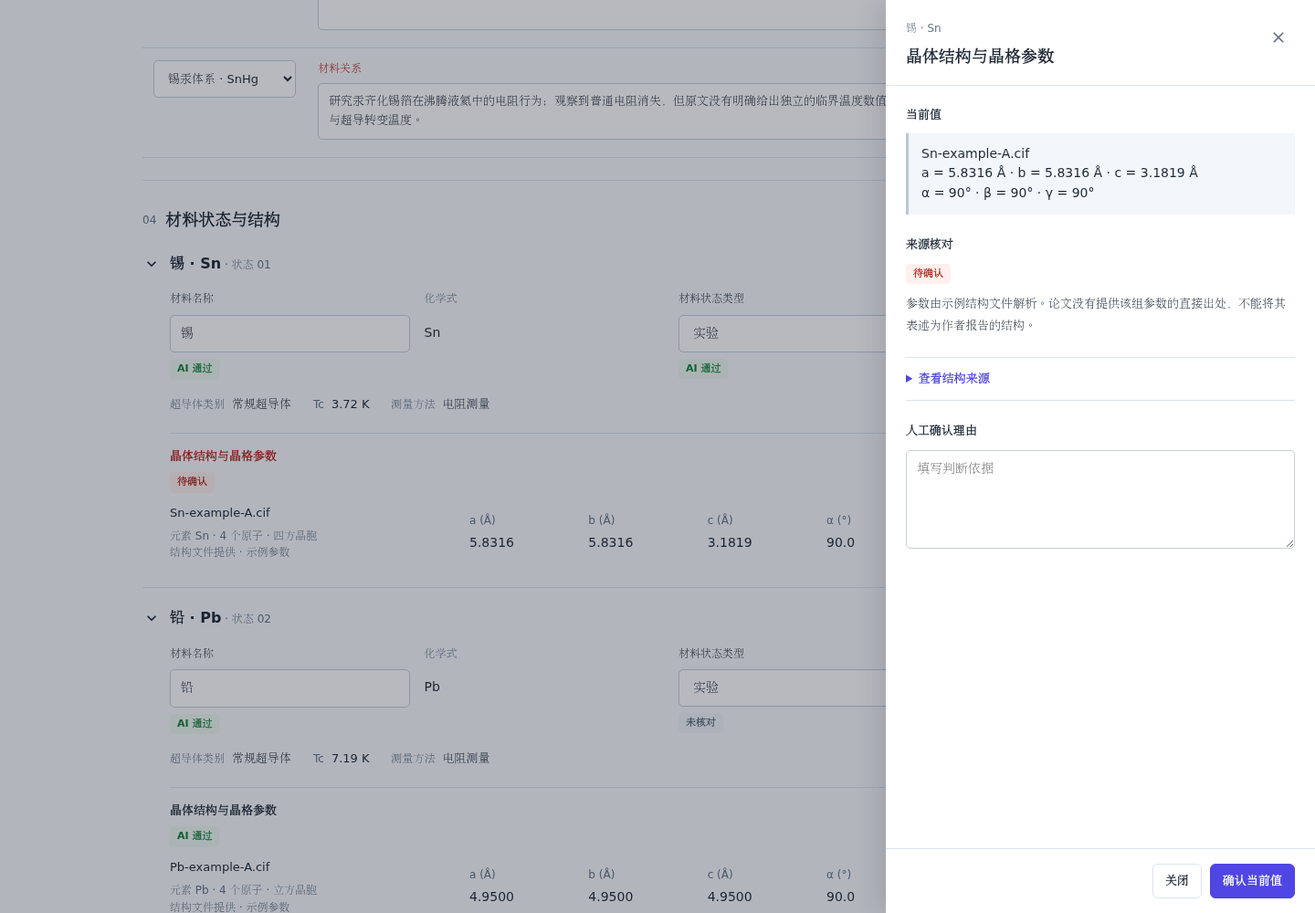
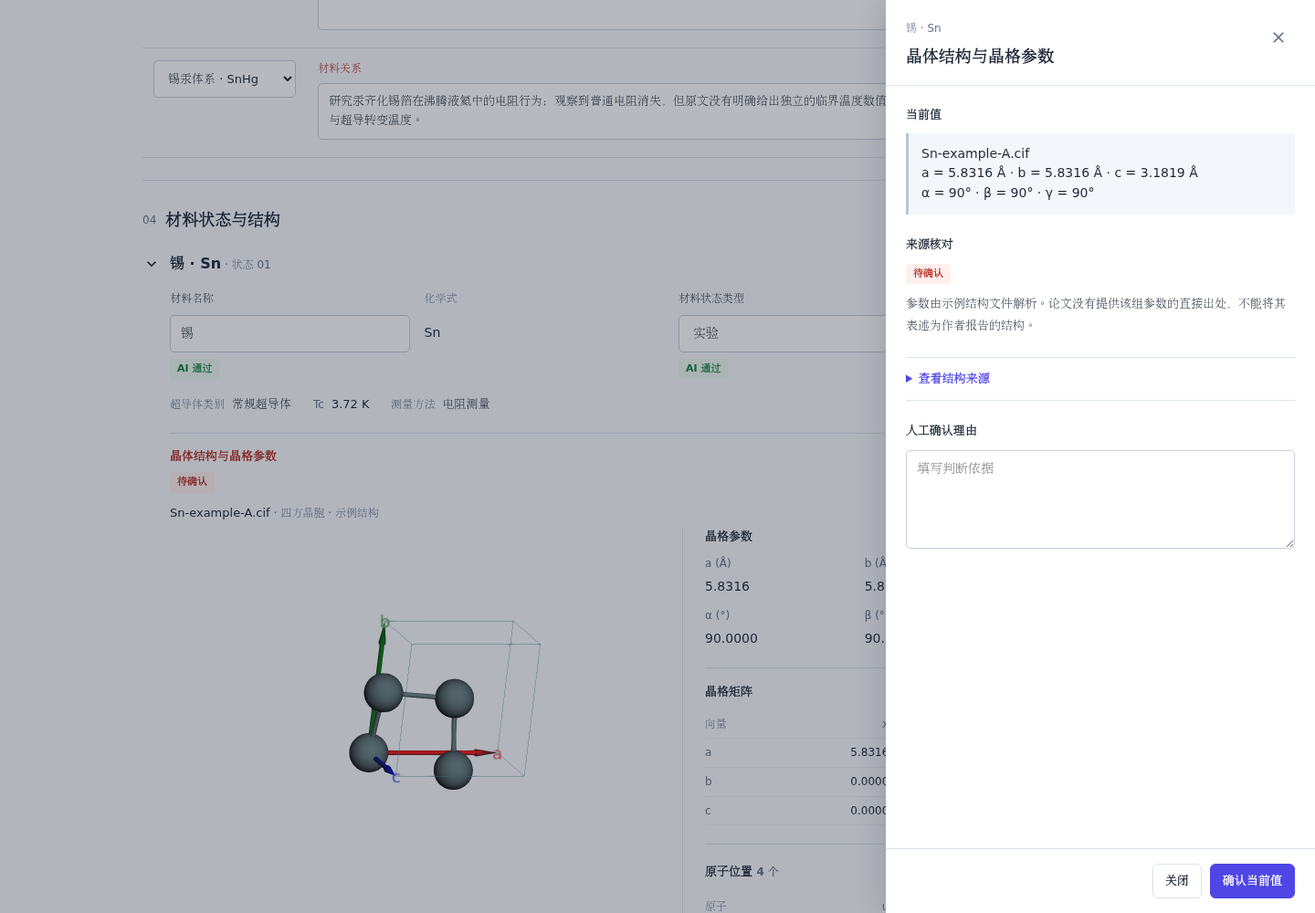
[时间] 2026-09-17 10:18:36 +0800 [修改目的] 将科学数据 Demo 的结构区改为三维模型与晶格及原子数据左右对照 [修改内容] - demo/scientific-review-layout-demo.html: 复用本地 3Dmol，实现等宽双栏、晶格矩阵、分数与直角坐标、旋转缩放重置及结构同步更新 - demo/scientific-review-layout-desktop.png: 更新桌面完整预览 - demo/scientific-review-layout-drawer.png: 更新来源核对侧栏预览 - demo/scientific-review

diff --git a/demo/scientific-review-layout-demo.html b/demo/scientific-review-layout-demo.html
@@ -4,7 +4,8 @@
   <meta charset="utf-8">
   <meta name="viewport" content="width=device-width, initial-scale=1">
   <title>SC-Wiki · 科学数据统一展示 Demo</title>
-  <!-- Issue #103 布局原型：所有数据与核对操作均为内存中的示例，不请求业务接口。 -->
+  <!-- Issue #103 布局原型：所有数据与核对操作均为内存中的示例，不请求业务接口。
+       3Dmol 使用仓库已安装的本地浏览器构建；晶体解析与坐标换算复用该库。 -->
   <style>
     :root { color-scheme: light; --bg:#f8fafc; --paper:#fff; --ink:#1f2937; --muted:#64748b; --line:#dce3eb; --primary:#4f46e5; --teal:#087f8c; --error:#b3261e; --success:#15803d; --warning:#946200; font-family:Inter,Roboto,"Segoe UI","Microsoft YaHei",sans-serif; font-size:14px; color:var(--ink); background:var(--bg); }
     * { box-sizing:border-box; letter-spacing:0; }
@@ -103,9 +104,28 @@
     .structure { margin:6px 0 20px; border-top:1px solid var(--line); padding-top:15px; }
     .structure-head { display:flex; justify-content:space-between; align-items:center; gap:12px; margin-bottom:12px; }
     .structure-title { font-weight:650; font-size:13px; }
-    .structure-body { display:grid; grid-template-columns:minmax(190px,1fr) minmax(0,2.5fr); gap:20px; align-items:center; }
+    .structure-body { display:grid; grid-template-columns:repeat(2,minmax(0,1fr)); gap:24px; align-items:start; }
+    .structure-visual,.structure-data { min-width:0; }
+    .crystal-slot,.crystal-host { position:relative; width:100%; height:440px; }
+    .crystal-host canvas { display:block; max-width:100%; touch-action:none; }
+    .viewer-tools { display:flex; align-items:center; justify-content:space-between; gap:10px; padding:8px 0; border-bottom:1px solid var(--line); }
+    .element-legend { display:flex; align-items:center; gap:12px; flex-wrap:wrap; font-size:12px; }
+    .element-legend span { display:inline-flex; gap:6px; align-items:center; }
+    .element-swatch { width:12px; height:12px; border:1px solid #64748b55; border-radius:50%; }
+    .structure-data { border-left:1px solid var(--line); padding-left:24px; }
+    .data-group + .data-group { margin-top:20px; padding-top:16px; border-top:1px solid var(--line); }
+    .data-heading { display:flex; align-items:center; justify-content:space-between; flex-wrap:wrap; gap:8px; margin-bottom:10px; }
+    .data-heading h4 { font-size:13px; margin:0; font-weight:650; }
+    .data-table { width:100%; border-collapse:collapse; table-layout:fixed; font-size:12px; font-variant-numeric:tabular-nums; }
+    .data-table th,.data-table td { text-align:right; padding:6px 8px; border-bottom:1px solid #e7edf3; white-space:nowrap; }
+    .data-table th { color:var(--muted); font-weight:500; }
+    .data-table th:first-child,.data-table td:first-child { width:58px; text-align:left; padding-left:0; }
+    .coordinate-mode { display:flex; gap:0; border:1px solid var(--line); border-radius:4px; }
+    .coordinate-mode button { border:0; background:none; padding:4px 8px; font-size:11px; }
+    .coordinate-mode button[aria-pressed="true"] { background:#e9f4f5; color:var(--teal); font-weight:650; }
+    .structure-error { padding:25px 0; font-size:13px; color:var(--error); }
     .file-name { font-size:13px; margin-bottom:6px; overflow-wrap:anywhere; }
-    .cell-values { display:grid; grid-template-columns:repeat(6,minmax(0,1fr)); gap:12px; margin:0; }
+    .cell-values { display:grid; grid-template-columns:repeat(3,minmax(0,1fr)); gap:12px; margin:0; }
     .cell-values dt { color:var(--muted); font-size:12px; }
     .cell-values dd { font-size:14px; font-variant-numeric:tabular-nums; margin:5px 0 0; white-space:nowrap; }
     .empty { padding:12px 0; color:var(--muted); font-size:13px; }
@@ -137,7 +157,7 @@
     .structure-choice input { width:17px; min-height:17px; margin:3px 0 0; flex-shrink:0; }
     .structure-choice strong { display:block; font-size:13px; margin-bottom:5px; }
     #toast { position:fixed; bottom:22px; left:50%; transform:translateX(-50%); max-width:calc(100% - 32px); background:#243442; color:#fff; border-radius:6px; padding:11px 18px; box-shadow:0 4px 16px #0002; z-index:10; font-size:13px; pointer-events:none; }
-    @media(max-width:850px) { .field-grid { grid-template-columns:repeat(2,minmax(0,1fr)); } .cell-values { grid-template-columns:repeat(3,minmax(0,1fr)); } .structure-body { grid-template-columns:1fr 1.4fr; } .relations th:first-child { width:145px; } .relations th:nth-child(3) { width:95px; } }
+    @media(max-width:850px) { .field-grid { grid-template-columns:repeat(2,minmax(0,1fr)); } .structure-body { grid-template-columns:1fr; } .structure-data { border-left:0; padding-left:0; } .relations th:first-child { width:145px; } .relations th:nth-child(3) { width:95px; } }
     @media(max-width:600px) {
       main { padding:20px 16px 0; } .topbar-inner { padding:12px 16px; } .topbar-right .muted { display:none; } .page-heading { align-items:flex-start; } h1 { font-size:22px; } .tabs { gap:0; } .tab { flex:1; padding:12px 4px; }
       .review-strip { flex-direction:column; } .metadata { grid-template-columns:1fr 1fr; } .materials { grid-template-columns:1fr; } .material-item { padding:10px 12px; } .section { padding:21px 0; } .section-head { align-items:flex-start; }
@@ -172,6 +192,7 @@
     <form id="structure-form"><div class="modal-content" id="structure-options"></div><div class="drawer-footer"><button class="btn" type="button" data-action="close-structure">取消</button><button class="btn primary" type="submit">使用此结构</button></div></form>
   </dialog>
   <div id="toast" role="status" hidden></div>
+  <script src="../frontend/node_modules/3dmol/build/3Dmol-min.js"></script>
   <script>
     'use strict';
     // 使用项目现有 @mui/icons-material 的图标路径，保持单文件可离线打开。
@@ -183,6 +204,10 @@
       expand:'M16.59 8.59 12 13.17 7.41 8.59 6 10l6 6 6-6z',
       arrow:'m12 4-1.41 1.41L16.17 11H4v2h12.17l-5.58 5.59L12 20l8-8z',
       science:'M13 11.33 18 18H6l5-6.67V6h2m2.96-2H8.04c-.42 0-.65.48-.39.81L9 6.5v4.17L3.2 18.4c-.49.66-.02 1.6.8 1.6h16c.82 0 1.29-.94.8-1.6L15 10.67V6.5l1.35-1.69c.26-.33.03-.81-.39-.81',
+      zoomIn:'M15.5 14h-.79l-.28-.27C15.41 12.59 16 11.11 16 9.5 16 5.91 13.09 3 9.5 3S3 5.91 3 9.5 5.91 16 9.5 16c1.61 0 3.09-.59 4.23-1.57l.27.28v.79l5 4.99L20.49 19zm-6 0C7.01 14 5 11.99 5 9.5S7.01 5 9.5 5 14 7.01 14 9.5 11.99 14 9.5 14M12 10h-2v2H9v-2H7V9h2V7h1v2h2z',
+      zoomOut:'M15.5 14h-.79l-.28-.27C15.41 12.59 16 11.11 16 9.5 16 5.91 13.09 3 9.5 3S3 5.91 3 9.5 5.91 16 9.5 16c1.61 0 3.09-.59 4.23-1.57l.27.28v.79l5 4.99L20.49 19zm-6 0C7.01 14 5 11.99 5 9.5S7.01 5 9.5 5 14 7.01 14 9.5 11.99 14 9.5 14M7 9h5v1H7z',
+      fit:'M12 8c-2.21 0-4 1.79-4 4s1.79 4 4 4 4-1.79 4-4-1.79-4-4-4m-7 7H3v4c0 1.1.9 2 2 2h4v-2H5zM5 5h4V3H5c-1.1 0-2 .9-2 2v4h2zm14-2h-4v2h4v4h2V5c0-1.1-.9-2-2-2m0 16h-4v2h4c1.1 0 2-.9 2-2v-4h-2z',
+      rotate:'M15.55 5.55 11 1v3.07C7.06 4.56 4 7.92 4 12s3.05 7.44 7 7.93v-2.02c-2.84-.48-5-2.94-5-5.91s2.16-5.43 5-5.91V10zM19.93 11c-.17-1.39-.72-2.73-1.62-3.89l-1.42 1.42c.54.75.88 1.6 1.02 2.47zM13 17.9v2.02c1.39-.17 2.74-.71 3.9-1.61l-1.44-1.44c-.75.54-1.59.89-2.46 1.03m3.89-2.42 1.42 1.41c.9-1.16 1.45-2.5 1.62-3.89h-2.02c-.14.87-.48 1.72-1.02 2.48',
     };
     const icon = (name, cls='') => `<svg class="icon ${cls}" viewBox="0 0 24 24" aria-hidden="true"><path d="${paths[name]}"></path></svg>`;
     const esc = value => String(value ?? '').replace(/[&<>"']/g, c => ({'&':'&amp;','<':'&lt;','>':'&gt;','"':'&quot;',"'":'&#39;'}[c]));
@@ -197,6 +222,64 @@
       'pb-b':{id:'pb-b',family:'Pb',file:'Pb-example-B.cif',elements:'Pb',atoms:4,system:'立方',params:[4.96,4.96,4.96,90,90,90]},
       'snhg-a':{id:'snhg-a',family:'SnHg',file:'SnHg-illustrative.cif',elements:'Sn, Hg',atoms:2,system:'立方（示例）',params:[4.8,4.8,4.8,90,90,90]},
     };
+    const sites = {
+      Sn:[['Sn',0,0,0],['Sn',0,.5,.25],['Sn',.5,.5,.5],['Sn',.5,0,.75]],
+      Pb:[['Pb',0,0,0],['Pb',0,.5,.5],['Pb',.5,0,.5],['Pb',.5,.5,0]],
+      SnHg:[['Sn',0,0,0],['Hg',.5,.5,.5]],
+    };
+    // 示例位点逐个列出，以 P1 读取，避免再次按空间群扩展同一组原子。
+    function structureCif(f) {
+      const names=['length_a','length_b','length_c','angle_alpha','angle_beta','angle_gamma'];
+      return [`data_${f.id.replaceAll('-','_')}`,...f.params.map((v,i)=>`_cell_${names[i]} ${v}`),
+        "_symmetry_space_group_name_H-M 'P 1'",'_symmetry_Int_Tables_number 1',
+        'loop_','_atom_site_label','_atom_site_type_symbol','_atom_site_fract_x','_atom_site_fract_y','_atom_site_fract_z',
+        ...sites[f.family].map(([element,x,y,z],i)=>`${element}${i+1} ${element} ${x} ${y} ${z}`),''].join('\n');
+    }
+    const crystalViews=new Map(), coordinateModes=new Map();
+    const fixed=value=>(Math.abs(value)<.000005?0:value).toFixed(4);
+    function structureDataMarkup(id, entry) {
+      const cryst=entry.model.getCrystData(), matrix=cryst.matrix.elements, atoms=entry.model.selectedAtoms({});
+      const cartesian=coordinateModes.get(id)==='cartesian';
+      const inverse=new $3Dmol.Matrix3().getInverse3(cryst.matrix);
+      return `<div class="data-group"><div class="data-heading"><h4>晶格参数</h4><span class="muted">晶胞体积 ${fixed(cryst.matrix.getDeterminant())} Å³</span></div><dl class="cell-values">${['a','b','c','alpha','beta','gamma'].map((key,i)=>`<div><dt>${['a','b','c','α','β','γ'][i]} (${i<3?'Å':'°'})</dt><dd>${fixed(cryst[key])}</dd></div>`).join('')}</dl></div>
+        <div class="data-group"><div class="data-heading"><h4>晶格矩阵</h4><span class="muted">晶格向量按行 · Å</span></div><table class="data-table lattice-table" aria-label="${id} 晶格矩阵"><thead><tr><th scope="col">向量</th><th scope="col">x</th><th scope="col">y</th><th scope="col">z</th></tr></thead><tbody>${['a','b','c'].map((name,i)=>`<tr><th scope="row">${name}</th>${[0,1,2].map(j=>`<td>${fixed(matrix[i*3+j])}</td>`).join('')}</tr>`).join('')}</tbody></table></div>
+        <div class="data-group"><div class="data-heading"><h4>原子位置 <span class="muted">${atoms.length} 个</span></h4><div class="coordinate-mode" role="group" aria-label="${id} 原子坐标类型">${[['fractional','分数坐标'],['cartesian','直角坐标 (Å)']].map(([value,label])=>`<button type="button" data-coordinates="${value}" data-id="${id}" aria-pressed="${cartesian===(value==='cartesian')}">${label}</button>`).join('')}</div></div><table class="data-table atom-table" aria-label="${id} 原子位置"><thead><tr><th scope="col">原子</th>${(cartesian?['x (Å)','y (Å)','z (Å)']:['u','v','w']).map(label=>`<th scope="col">${label}</th>`).join('')}</tr></thead><tbody>${atoms.map((atom,i)=>{
+          const pos=new $3Dmol.Vector3(atom.x,atom.y,atom.z);if(!cartesian)pos.applyMatrix3(inverse);
+          return `<tr><th scope="row">${esc(atom.elem)}${i+1}</th>${[pos.x,pos.y,pos.z].map(v=>`<td>${fixed(v)}</td>`).join('')}</tr>`;
+        }).join('')}</tbody></table></div>`;
+    }
+    function mountCrystalViews() {
+      document.querySelectorAll('[data-crystal-slot]').forEach(slot=>{
+        const id=slot.dataset.crystalSlot, f=structureFiles[stateById(id).structure];
+        try {
+          if(!window.$3Dmol)throw new Error('本地 3Dmol 库未加载，请先安装 frontend 依赖。');
+          let entry=crystalViews.get(id);
+          if(!entry) {
+            const host=document.createElement('div');host.className='crystal-host';slot.append(host);
+            const viewer=$3Dmol.createViewer(host,{backgroundColor:'#f8fafc',orthographic:true,antialias:true});
+            entry={host,viewer,structureId:null,baseView:viewer.getView()};crystalViews.set(id,entry);
+            entry.observer=new ResizeObserver(()=>{if(host.isConnected&&host.clientWidth&&host.clientHeight){viewer.resize();viewer.render();}});
+            entry.observer.observe(host);
+          } else slot.append(entry.host);
+          if(entry.structureId!==f.id) {
+            entry.viewer.clear();
+            entry.model=entry.viewer.addModel(structureCif(f),'cif');
+            entry.viewer.setStyle({},{sphere:{scale:.38,colorscheme:'Jmol'},stick:{radius:.10,colorscheme:'Jmol'}});
+            entry.viewer.addUnitCell(entry.model,{box:{color:'#49858e',linewidth:2},alabel:'a',blabel:'b',clabel:'c'});
+            entry.viewer.setView(entry.baseView);entry.viewer.zoomTo();entry.viewer.rotate(22,'y');entry.viewer.rotate(18,'x');entry.viewer.zoom(1.3);
+            entry.initialView=entry.viewer.getView();entry.structureId=f.id;
+          }
+          if(entry.host.clientWidth){entry.viewer.resize();entry.viewer.render();}
+          const canvas=entry.viewer.getCanvas();canvas.setAttribute('aria-label',`${f.family} 可旋转晶体结构`);canvas.setAttribute('role','img');
+          document.querySelector(`[data-structure-data="${id}"]`).innerHTML=structureDataMarkup(id,entry);
+          const elements=[...new Set(entry.model.selectedAtoms({}).map(atom=>atom.elem))];
+          document.querySelector(`[data-legend="${id}"]`).innerHTML=elements.map(element=>`<span><i class="element-swatch" style="background:#${Number($3Dmol.elementColors.Jmol[element]??0x909090).toString(16).padStart(6,'0')}"></i>${esc(element)}</span>`).join('');
+        } catch(error) {
+          slot.innerHTML=`<p class="structure-error">${esc(error.message||'结构预览暂不可用')}</p>`;
+          document.querySelector(`[data-structure-data="${id}"]`).innerHTML='<p class="empty">结构解析未完成，无法显示矩阵与原子位置。</p>';
+        }
+      });
+    }
     const initial = {
       states:[
         {id:'sn',name:'锡',formula:'Sn',kind:'experimental',pressure:'常压',tc:'3.72 K',method:'电阻测量',structure:'sn-a'},
@@ -261,12 +344,14 @@
     function structureMarkup(s) {
       const f=structureFiles[s.structure], key=`structure:${s.id}:${s.structure}`;
       const title=f?evidenceButton(key,'晶体结构与晶格参数',`${s.formula} 晶体结构与晶格参数`):'晶体结构与晶格参数';
-      return `<section class="structure" aria-label="${esc(s.formula)} 结构附件"><div class="structure-head"><div><h3 class="structure-title">${title}</h3>${f?`<div data-badge="${key}" style="margin-top:6px">${badge(key)}</div>`:''}</div>${readOnly()?'':`<button class="btn" data-action="choose-structure" data-id="${s.id}">${icon('add')}${f?'更换结构':'添加结构'}</button>`}</div>${f?`<div class="structure-body"><div><div class="file-name">${esc(f.file)}</div><div class="muted">元素 ${esc(f.elements)} · ${f.atoms} 个原子 · ${esc(f.system)}晶胞</div><div class="muted">结构文件提供 · 示例参数</div></div><dl class="cell-values">${f.params.map((v,i)=>`<div><dt>${['a','b','c','α','β','γ'][i]} (${i<3?'Å':'°'})</dt><dd>${Number(v).toFixed(i<3?4:1)}</dd></div>`).join('')}</dl></div>`:'<p class="empty">未提供结构文件，晶格参数未知</p>'}</section>`;
+      return `<section class="structure" aria-label="${esc(s.formula)} 结构附件"><div class="structure-head"><div><h3 class="structure-title">${title}</h3>${f?`<div data-badge="${key}" style="margin-top:6px">${badge(key)}</div>`:''}</div>${readOnly()?'':`<button class="btn" data-action="choose-structure" data-id="${s.id}">${icon('add')}${f?'更换结构':'添加结构'}</button>`}</div>${f?`<div class="file-name">${esc(f.file)} <span class="muted">· ${esc(f.system)}晶胞 · 示例结构</span></div><div class="structure-body"><div class="structure-visual"><div class="crystal-slot" data-crystal-slot="${s.id}"></div><div class="viewer-tools"><div class="element-legend" data-legend="${s.id}"></div><div class="actions">${[['rotate','旋转','rotate'],['zoom-in','放大','zoomIn'],['zoom-out','缩小','zoomOut'],['reset','重置视角','fit']].map(([action,label,glyph])=>`<button class="btn icon-btn subtle" data-viewer-action="${action}" data-id="${s.id}" title="${label}" aria-label="${s.formula} ${label}">${icon(glyph)}</button>`).join('')}</div></div></div><div class="structure-data" data-structure-data="${s.id}"></div></div>`:'<p class="empty">未提供结构文件，晶格参数、晶格矩阵与原子位置未知</p>'}</section>`;
     }
     function statesMarkup() {
       return draft.states.map((s,i)=>`<article class="state" id="material-${s.id}"><header class="state-heading"><button class="state-toggle" aria-expanded="${!collapsed.has(s.id)}" aria-controls="state-body-${s.id}" data-action="toggle-state" data-id="${s.id}">${icon('expand')}<span><span class="state-name" data-name-for="${s.id}">${esc(stateLabel(s))}</span><span class="state-subtitle"> · 状态 ${String(i+1).padStart(2,'0')}</span></span></button><span class="badge" data-kind-for="${s.id}">${kinds[s.kind]}</span></header><div class="state-body" id="state-body-${s.id}" ${collapsed.has(s.id)?'hidden':''}><div class="field-grid">${fieldMarkup(s,'name','材料名称')}<div class="field"><div class="field-header"><span class="muted">化学式</span></div><div class="field-value">${esc(s.formula)}</div></div>${fieldMarkup(s,'kind','材料状态类型')}<div class="field"><div class="field-header"><span class="muted">压强条件</span></div><div class="field-value">${esc(s.pressure)}</div></div></div><div class="property-row"><div><span>超导体类别</span>常规超导体</div><div><span>Tc</span>${esc(s.tc)}</div><div><span>测量方法</span>${esc(s.method)}</div></div>${structureMarkup(s)}</div></article>`).join('');
     }
     function render() {
+      // 复用画布和 WebGL 上下文，切换视图与保存时不反复创建查看器。
+      crystalViews.forEach(entry=>entry.host.remove());
       document.getElementById('page-title').textContent=modes[mode][0];
       document.getElementById('breadcrumb-view').textContent=modes[mode][0];
       document.getElementById('role-badge').textContent=modes[mode][1];
@@ -281,6 +366,7 @@
         <footer class="footer"><span class="save-state" id="save-state" aria-live="polite"></span>${readOnly()?'<span class="muted">只读详情</span>':`<div class="actions"><button class="btn" data-action="cancel">取消修改</button><button class="btn primary" data-action="save">${icon('save')}保存修改</button></div>`}</footer>`;
       updateSaveState();
       sizeRelations();
+      mountCrystalViews();
     }
     function sizeRelations() {
       document.querySelectorAll('.relation-text').forEach(node=>{node.style.height='auto';node.style.height=(node.scrollHeight+2)+'px';});
@@ -390,6 +476,21 @@
     });
     document.addEventListener('click',event=>{
       const node=event.target.closest('button,a');if(!node)return;
+      if(node.dataset.coordinates) {
+        coordinateModes.set(node.dataset.id,node.dataset.coordinates);
+        const target=document.querySelector(`[data-structure-data="${node.dataset.id}"]`);
+        target.innerHTML=structureDataMarkup(node.dataset.id,crystalViews.get(node.dataset.id));
+        target.querySelector(`[data-coordinates="${node.dataset.coordinates}"]`).focus({preventScroll:true});return;
+      }
+      if(node.dataset.viewerAction) {
+        const entry=crystalViews.get(node.dataset.id);if(!entry)return;
+        const action=node.dataset.viewerAction;
+        if(action==='rotate')entry.viewer.rotate(30,'y');
+        else if(action==='zoom-in')entry.viewer.zoom(1.2);
+        else if(action==='zoom-out')entry.viewer.zoom(1/1.2);
+        else entry.viewer.setView(entry.initialView);
+        entry.viewer.render();return;
+      }
       if(node.dataset.mode) {mode=node.dataset.mode;render();return;}
       if(node.dataset.evidence) {openEvidence(node.dataset.evidence,node);return;}
       if(node.dataset.jump) {

diff --git a/docs/specs/103-property-evidence-review/layout-demo.md b/docs/specs/103-property-evidence-review/layout-demo.md
@@ -8,7 +8,9 @@
 本文件记录演示的设计与验证，不表示生产页面已经完成这些调整；协作状态仍以 Issue 为准。
 
 演示入口：[科学数据统一展示 Demo](../../../demo/scientific-review-layout-demo.html)。
-浏览器直接打开即可，无需启动服务、登录、配置模型或安装依赖。
+浏览器直接打开即可，无需启动服务、登录或配置模型。
+晶体可视化引用仓库现有 `frontend/node_modules/3dmol/build/3Dmol-min.js`，需要已有前端依赖；
+不请求外部 CDN。移动 HTML 时需保持其与 `frontend/` 的相对位置。
 示例论文、引文、材料状态、结构参数及提供者身份仅用于交互演示，不属于真实论文验收数据。
 
 ## 已确认的布局与编辑方式
@@ -18,7 +20,7 @@
 | 研究材料 | 论文基本信息之后 | 从材料状态汇总名称、化学式与状态链接，修改材料名后同步更新；不新增独立研究材料输入框 |
 | 材料关系 | 研究材料之后 | 展示论文与材料的研究关系，逐行选择材料、编辑描述、增加或删除；长文本完整换行 |
 | 材料状态类型 | 各材料状态的基本信息区 | 实验、理论、理论与实验、未知四个选项；与常规／非常规超导体类别分别展示 |
-| 晶体结构与晶格参数 | 对应材料状态的结构附件区 | 显示文件名、元素、原子数和带单位的六个晶胞参数；更换示例结构时一起更新 |
+| 晶体结构与晶格参数 | 对应材料状态的结构附件区 | 左侧交互晶体模型，右侧依次显示晶格参数、晶格矩阵与原子位置；更换示例结构时一起更新 |
 | 来源核对 | 字段标签或结构标题 | 点击或键盘打开右侧面板，展示归属、当前值、核对状态和示例来源，不在页尾输出原始 JSON |
 
 三个视图共享一份内存草稿：上传校对与审核编辑允许修改，论文详情只读。
@@ -28,12 +30,28 @@
 ## 演示的数据与交互边界
 
 - 使用 Sn、Pb、SnHg 三个材料状态；Sn 和 Pb 提供示例结构，SnHg 初始无结构。
-- 更换结构通过选择内置示例文件演示，不读取任意 CIF、不声称实现真实结构解析。
+- 更换结构通过选择内置示例文件演示，3Dmol 解析同一份示例 CIF 生成模型、晶格参数、矩阵与原子位置；不提供任意文件上传。
 - 保存仅更新当前页面内存中的快照；取消恢复快照，刷新恢复初始示例，不使用本地持久化或网络请求。
 - 上传视图可采纳、撤销示例建议；审核视图另外允许填写非空理由并人工确认。AI 通过、人工确认及建议采纳分别显示。
 - 修改相关字段使先前结果失效，清除旧人工理由的生效状态。结构核对按材料与结构身份定位。
 - 关闭或确认侧栏后返回原入口并保持阅读位置。详情不提供编辑或裁决操作。
 - 原型只演示本轮字段；既有论文、物性与完整审核功能由生产组件负责，不将原型直接替换为生产编辑器。
+
+## 晶体结构左右布局补充
+
+用户要求保留已有的三维晶体展示，并将结构区分为左右两半。桌面采用等宽双栏，
+宽度不超过 850 像素时改为上方模型、下方数据，三种页面视图保持一致。
+
+- 左侧复用生产查看器同版本的 3Dmol.js，显示球棍模型、晶胞边界、a/b/c 轴和元素图例。
+  支持鼠标拖动、缩放，以及旋转、放大、缩小和重置视角按钮；每个材料保持独立视角。
+- 右侧按晶格参数、晶格矩阵、原子位置顺序明确展示，默认不折叠。
+  长度使用 Å，角度使用度，体积使用 Å³；矩阵按 a、b、c 晶格向量逐行排列。
+- 原子位置默认显示沿晶格向量的分数坐标 u、v、w，可切换为直角坐标 x、y、z（Å）。
+  坐标换算使用 3Dmol 的矩阵与向量 API，不把非正交晶胞的分数坐标误写成 x/a、y/b、z/c。
+- 示例原子位点逐一列出并以 P1 解析，避免按空间群重复展开；这些位点不代表原论文提供了结构证据。
+- 模型与数据表都读取同一个已解析模型；更换结构、取消修改、切换视图后保持一致。
+  无结构时明确显示未知，不生成推测矩阵或原子位置。
+- 查看器按材料复用，切换页面或保存不累积 WebGL 上下文；折叠后重新展开时调整画布尺寸。
 
 ## 后续正式接入要求
 
@@ -42,6 +60,8 @@
 3. 验证上传保存、提交、管理员保存与详情重载；研究材料保持服务端汇总语义。
 4. 多结构独立定位，排序后仍按稳定身份匹配；未定位项进入核对区的紧凑清单，不丢弃也不输出页尾原始数据。
 5. 正式页面交互与读写链路验证后再更新 Overview。本次不关闭 #103，不把 Demo 验证当作真实服务验收。
+6. 正式结构区保留现有三维组件，同步展示对应晶胞表示的参数、矩阵和原子坐标；
+   当前结构摘要仅含晶格参数，矩阵与位点须从同一结构解析结果提供，不另建可独立编辑的数据副本。
 
 ## 浏览器验证
 
@@ -54,12 +74,17 @@
 - 展开／折叠、材料跳转、视图键盘切换、侧栏 Escape 关闭、焦点及滚动恢复。
 - 手机页面与侧栏无横向溢出，长关系文本随内容增高。
 - 浏览器无脚本错误，零 HTTP／HTTPS 请求。
+- 结构区桌面等宽双栏、手机上下排列；画布像素检查确认非空、模型未裁切。
+- 旋转、拖动、缩放与重置改变实际模型视图；更换结构和取消同步更新模型及数据表。
+- 参数、按行矩阵、分数坐标与直角坐标核对；额外使用非正交晶胞验证矩阵方向与正反坐标转换。
 
 预览截图：
 
 - [桌面页面](../../../demo/scientific-review-layout-desktop.png)
 - [来源核对侧栏](../../../demo/scientific-review-layout-drawer.png)
 - [手机页面](../../../demo/scientific-review-layout-mobile.png)
+- [晶体结构左右布局](../../../demo/scientific-review-structure-desktop.png)
+- [手机结构布局](../../../demo/scientific-review-structure-mobile.png)
 
 ## 文档影响
 
